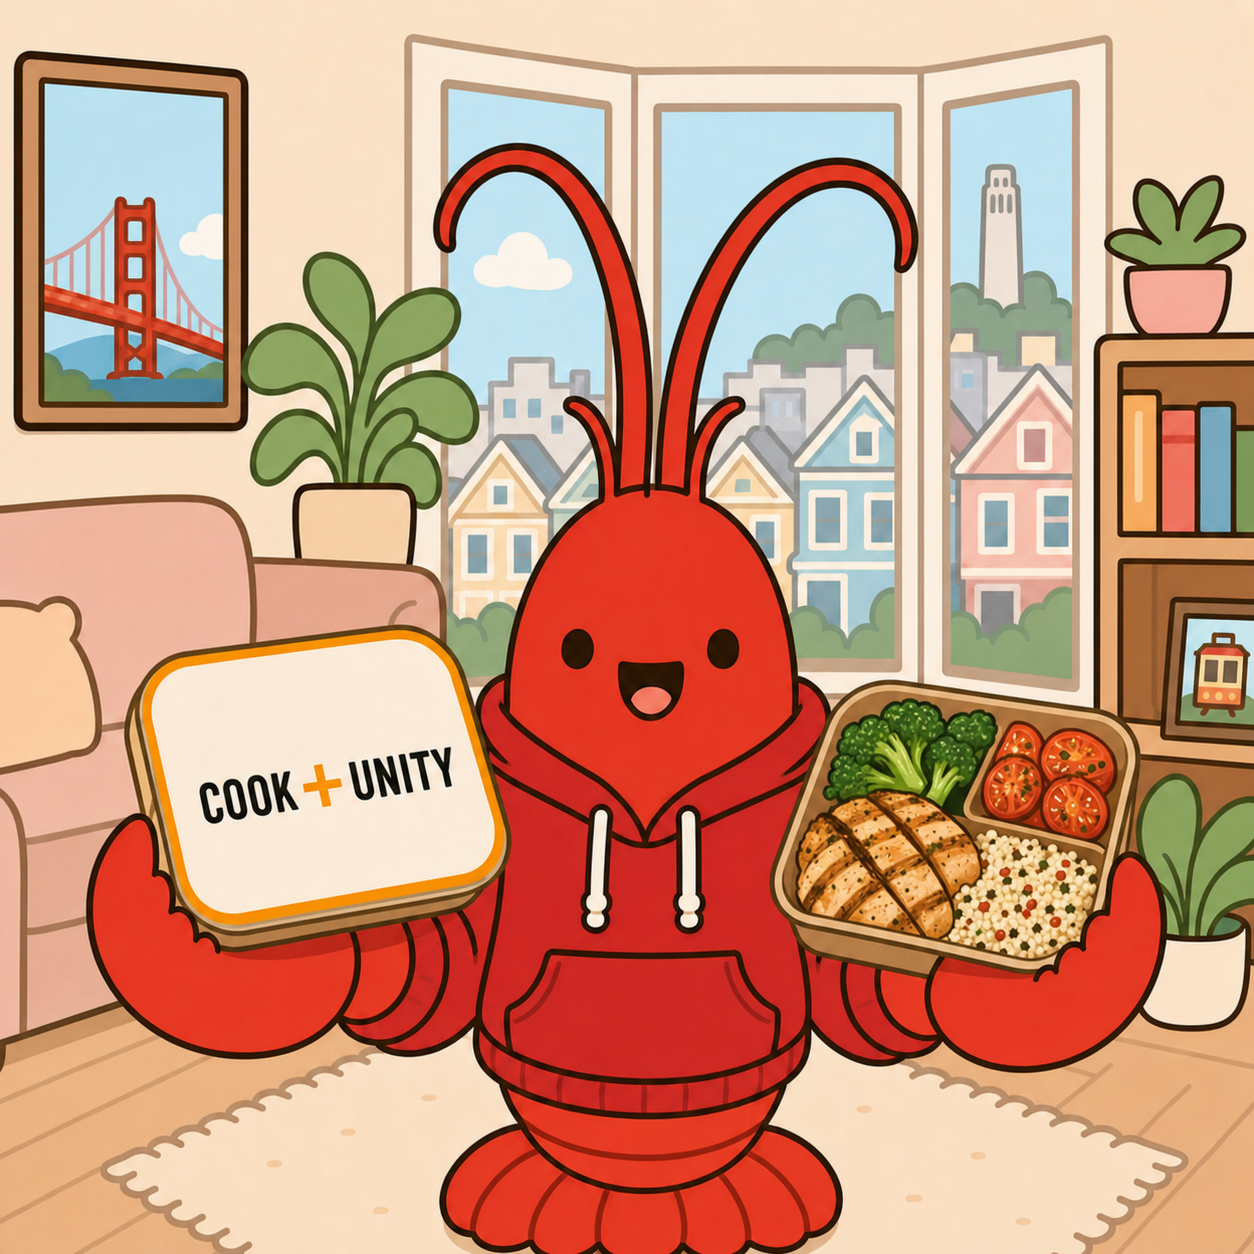
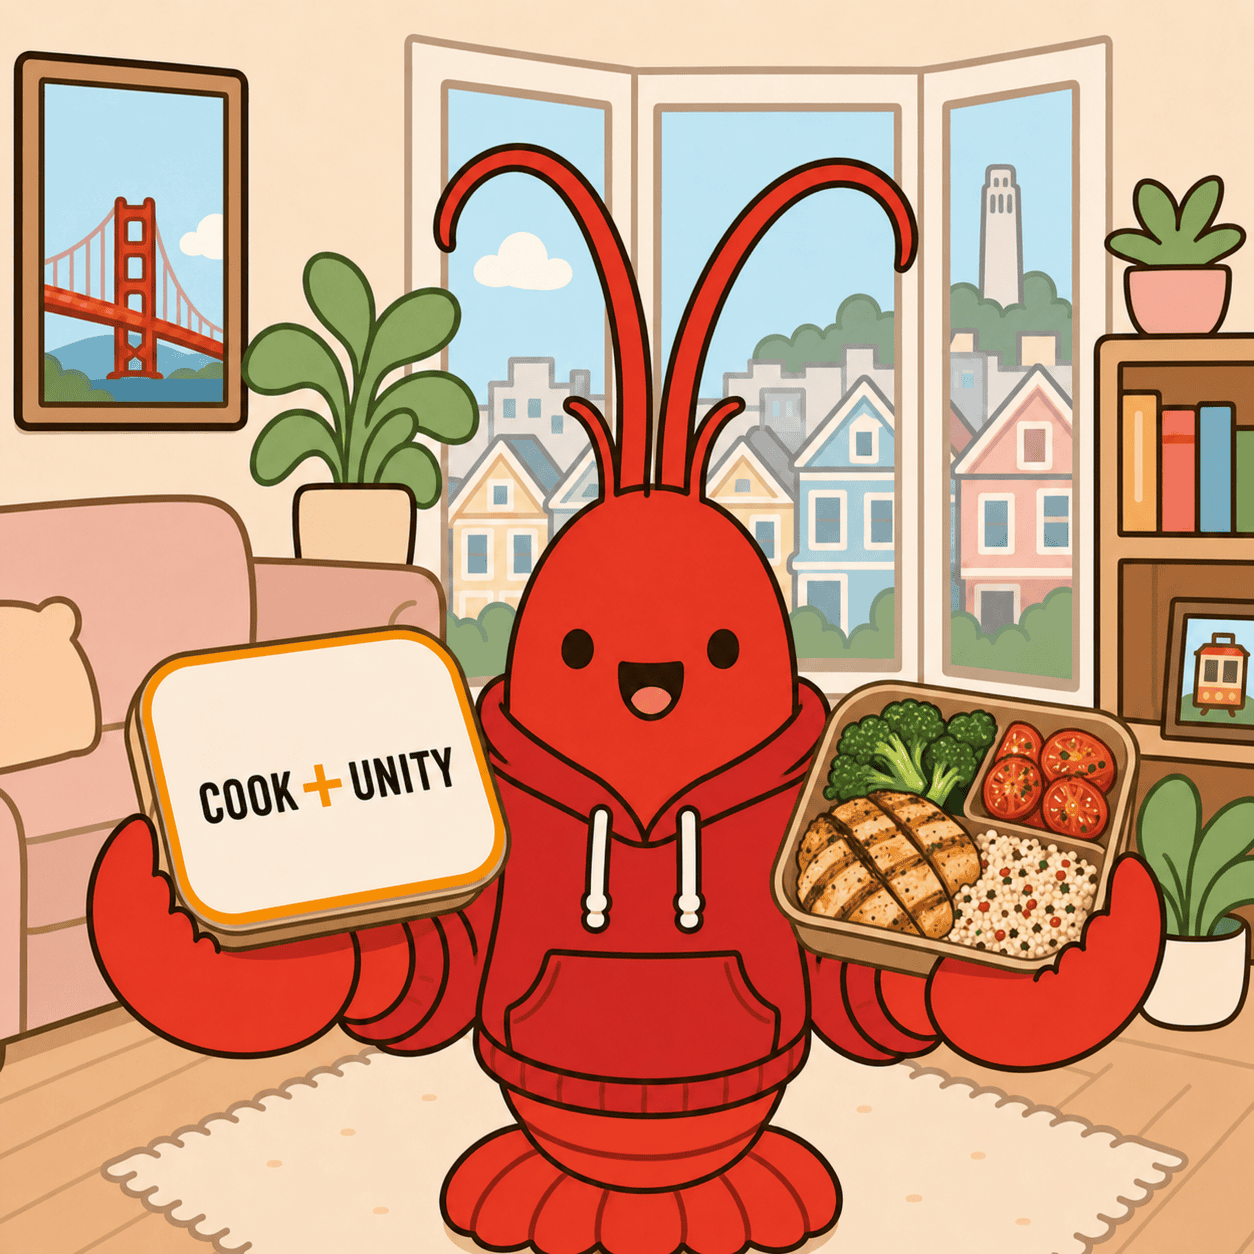
Compress the mascot: 1.8MB -> 412KB
pngquant to a 128-colour palette, then oxipng -o max. Flat cartoon art with
heavy outlines quantizes almost perfectly: RMSE 3.82/255 (1.5%), mean error
0.8%, measured against the original. Imperceptible, and it renders at 420px
anyway.

Kept the full 1254x1254 so it stays usable as a ClawHub listing image or an
avatar; the win is all palette, no downsampling.

Claude-Session: https://claude.ai/code/session_01LKY8XVi7hRmn6mG69XJiCK

diff --git a/README.md b/README.md
@@ -305,9 +305,9 @@ Two things to know before you publish:
   `LICENSE`.
 - **The bundle includes every file in the folder** (up to 50MB), honoring `.gitignore` and
   `.clawhubignore`. `*.db` is gitignored and `docs/` is clawhubignored, so neither your order
-  history nor the 1.8MB mascot ends up in a ClawHub bundle. Note that `.clawhubignore` only
-  applies to ClawHub publishes — `openclaw skills install git:...` is a plain clone and copies
-  `docs/` too. Do re-read `references/config.md` before publishing a fork, since that file is
+  history nor the mascot ends up in a ClawHub bundle. Note that `.clawhubignore` only applies
+  to ClawHub publishes — `openclaw skills install git:...` is a plain clone and copies `docs/`
+  too. Do re-read `references/config.md` before publishing a fork, since that file is
   *designed* to hold your chat id, vault names, and paths.
 
 ---
